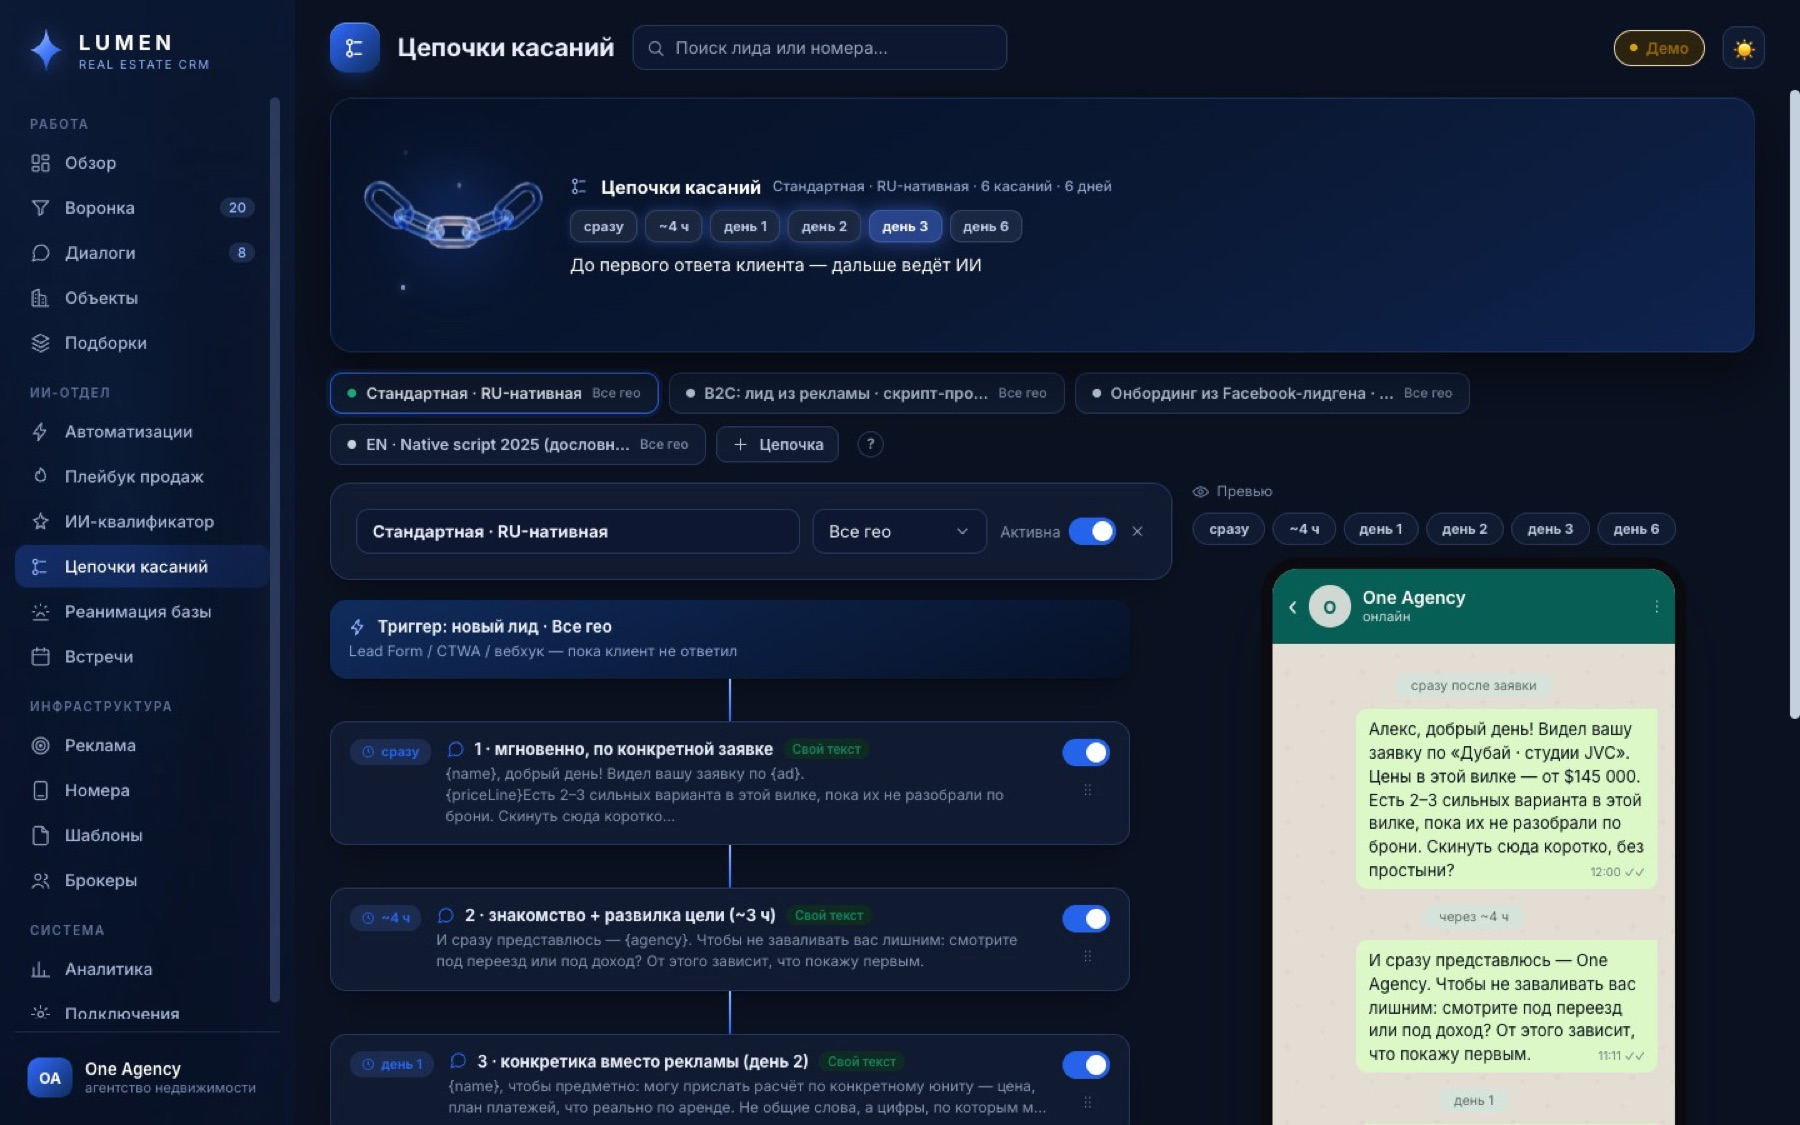
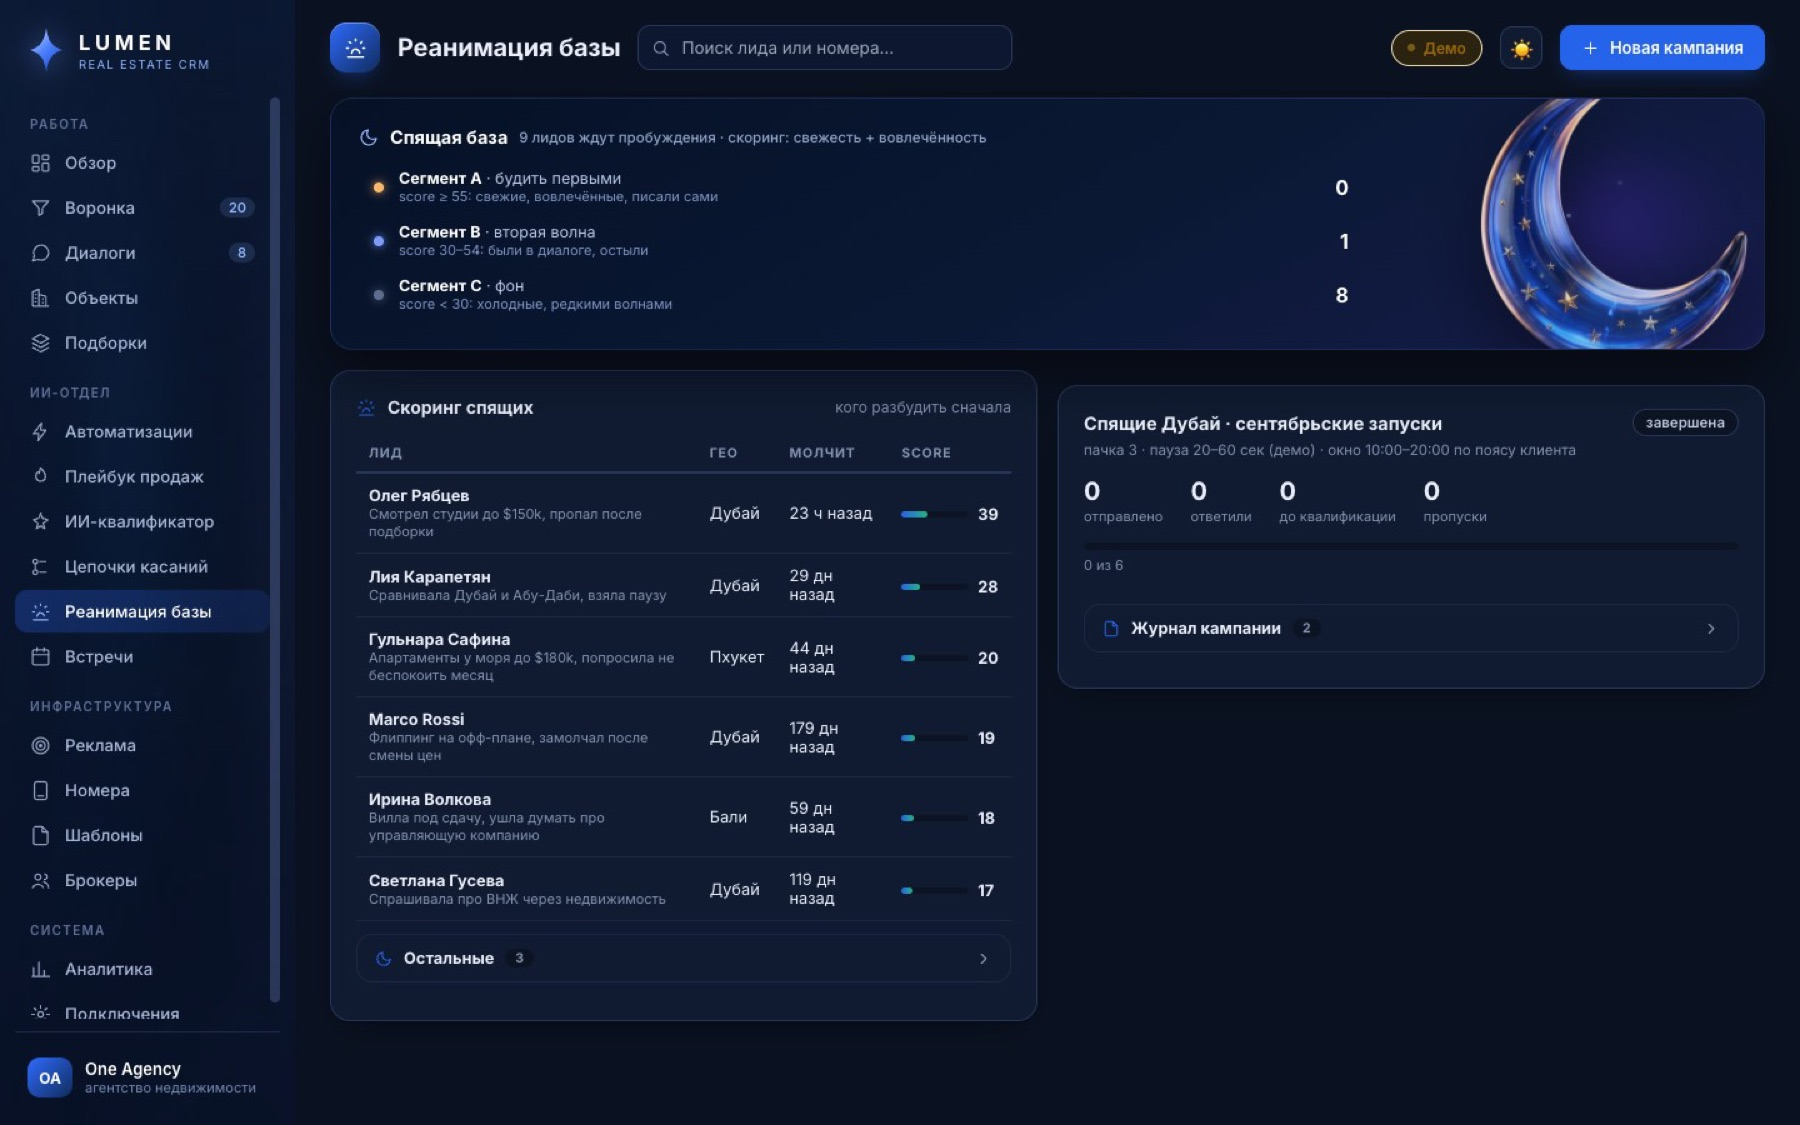
полировка лендинга: H1 — три чистые строки («за 60 секунд» не рвётся), бенто без пустот (карточки flex-колонкой, скрины object-fit:cover), «Реанимация базы» — правильный скрин с луной (был скрин цепочек + ?v= против суточного кэша картинок), «7 дней» неразрывно, формула калькулятора — тихой заметкой

diff --git a/public/landing.html b/public/landing.html
@@ -115,16 +115,16 @@ h2{font-family:var(--disp);font-weight:600;font-size:clamp(24px,3.2vw,38px);line
 
 /* бенто */
 .bento{display:grid;grid-template-columns:repeat(6,1fr);gap:16px}
-.bcard{grid-column:span 3;background:linear-gradient(180deg,var(--panel),var(--panel2));border:1px solid var(--stroke);border-radius:var(--r);overflow:hidden;position:relative;transition:transform var(--dur) var(--ease-spring),border-color var(--dur)}
+.bcard{grid-column:span 3;background:linear-gradient(180deg,var(--panel),var(--panel2));border:1px solid var(--stroke);border-radius:var(--r);overflow:hidden;position:relative;transition:transform var(--dur) var(--ease-spring),border-color var(--dur);display:flex;flex-direction:column}
 .bcard:hover{transform:translateY(-4px);border-color:var(--stroke2)}
 .bcard.w4{grid-column:span 4}.bcard.w2{grid-column:span 2}
 .bcard .pad{padding:26px 28px 20px}
 .bcard h3{font-family:var(--disp);font-weight:600;font-size:20px;letter-spacing:.01em;display:flex;gap:10px;align-items:center}
 .bcard h3 svg{width:19px;height:19px;color:var(--sky);flex:0 0 auto}
 .bcard p{color:var(--ink2);font-size:13.8px;margin-top:8px;line-height:1.55}
-.bcard .shot{margin:16px 18px 18px;border-radius:12px;border:1px solid var(--stroke);overflow:hidden;position:relative}
+.bcard .shot{margin:16px 18px 18px;border-radius:12px;border:1px solid var(--stroke);overflow:hidden;position:relative;flex:1;min-height:210px}
 .bcard .shot::after{content:'';position:absolute;inset:0;background:linear-gradient(180deg,transparent 55%,rgba(4,7,15,.55));pointer-events:none}
-.bcard .shot img{transition:transform .8s var(--ease-spring)}
+.bcard .shot img{width:100%;height:100%;object-fit:cover;object-position:top;transition:transform .8s var(--ease-spring)}
 .bcard:hover .shot img{transform:scale(1.025)}
 @media(max-width:900px){.bcard,.bcard.w4,.bcard.w2{grid-column:span 6}}
 
@@ -320,7 +320,7 @@ h2{font-family:var(--disp);font-weight:600;font-size:clamp(24px,3.2vw,38px);line
 .final{margin-top:180px;margin-left:auto;margin-right:auto}
 .fpanel h2{max-width:720px;margin:18px auto 0}
 .fpanel p{color:var(--ink2);max-width:560px;margin:18px auto 0}
-footer{padding:44px 0 40px;color:var(--ink3);font-size:13px;display:flex;justify-content:space-between;gap:14px;flex-wrap:wrap;align-items:center}
+footer{margin-top:70px;padding:34px 0 40px;border-top:1px solid var(--stroke);color:var(--ink3);font-size:13px;display:flex;justify-content:space-between;gap:14px;flex-wrap:wrap;align-items:center}
 footer .fb{display:flex;align-items:center;gap:9px;font-family:var(--disp);letter-spacing:.1em;font-weight:600;color:var(--ink2)}
 footer .fb img{width:18px;height:18px}
 
@@ -350,7 +350,7 @@ footer .fb img{width:18px;height:18px}
 <header class="hero">
   <div class="wrap">
     <span class="badge" data-hrv="1"><i></i>AI-CRM для агентств недвижимости</span>
-    <h1 data-hrv="2">ИИ-отдел продаж, который отвечает лиду <span class="em">за 60 секунд</span></h1>
+    <h1 data-hrv="2">ИИ-отдел продаж,<br>который отвечает лиду<br><span class="em">за 60 секунд</span></h1>
     <p class="sub" data-hrv="3">Lumen сам квалифицирует заявки в WhatsApp, дожимает молчунов 18 дней, будит спящую базу и передаёт брокеру только тёплых — с выжимкой и слотом созвона.</p>
     <div class="hero-ctas" data-hrv="4">
       <button class="btn-xl" onclick="location.href='/'">Смотреть живое демо</button>
@@ -391,7 +391,7 @@ footer .fb img{width:18px;height:18px}
       <div class="bcard" data-rv>
         <div class="pad"><h3><svg viewBox="0 0 24 24" fill="none" stroke="currentColor" stroke-width="1.8"><path d="M21 12.8A9 9 0 1 1 11.2 3a7 7 0 0 0 9.8 9.8z"/></svg>Реанимация базы</h3>
         <p>Скоринг A/B/C решает, кого будить первым. Волны с паузами, тихие часы по поясу клиента, safe-mode для здоровья номеров — спящая база превращается в сделки.</p></div>
-        <div class="shot"><img src="/assets/land/react.jpg" alt="Реанимация базы" loading="lazy"></div>
+        <div class="shot"><img src="/assets/land/react.jpg?v=2" alt="Реанимация базы" loading="lazy"></div>
       </div>
       <div class="bcard" data-rv>
         <div class="pad"><h3><svg viewBox="0 0 24 24" fill="none" stroke="currentColor" stroke-width="1.8"><path d="M14 2H6a2 2 0 0 0-2 2v16a2 2 0 0 0 2 2h12a2 2 0 0 0 2-2V8l-6-6z"/><path d="M14 2v6h6"/></svg>Подборки и PDF</h3>
@@ -454,7 +454,7 @@ footer .fb img{width:18px;height:18px}
         <div class="st"><span class="n">03</span><div><b>Волны с safe-mode</b><p>Пачки, паузы, тихие часы по поясу клиента — номера живут, база не выгорает.</p></div></div>
         <div class="st"><span class="n">04</span><div><b>Ответил — ведёт ИИ</b><p>Проснувшийся лид попадает в обычную первую линию и доходит до встречи.</p></div></div>
       </div>
-      <div class="pshot"><img src="/assets/land/react.jpg" alt="Реанимация" loading="lazy"></div>
+      <div class="pshot"><img src="/assets/land/react.jpg?v=2" alt="Реанимация" loading="lazy"></div>
     </div>
     <div class="ppane">
       <div class="steps">
@@ -569,9 +569,7 @@ footer .fb img{width:18px;height:18px}
           <div class="cl"><span>Сейчас доходит до квалификации</span><b id="cvConv">30%</b></div>
           <input type="range" id="cConv" min="10" max="60" step="1" value="30" aria-label="Текущая конверсия в квалификацию">
         </div>
-        <div class="crow" style="margin-top:30px">
-          <div class="cl" style="margin-bottom:0"><span style="color:var(--ink3);font-weight:500">Квал → сделка взяли 12%, Lumen считаем по 65% доквала (низ вилки 55–80%). Формулы честные, без магии.</span></div>
-        </div>
+        <div style="margin-top:26px;padding-top:16px;border-top:1px solid var(--stroke);font-size:12px;color:var(--ink3);line-height:1.6">Квал → сделка — 12%, Lumen — 65% доквала (низ вилки 55–80%). Формулы честные, без магии.</div>
       </div>
       <div class="cout">
         <div class="cres">
@@ -616,7 +614,7 @@ footer .fb img{width:18px;height:18px}
   <div class="wrap">
     <div class="sec-head" data-rv>
       <span class="sec-badge">Внедрение</span>
-      <h2>От брифа до живых заявок — 7 дней</h2>
+      <h2>От брифа до живых заявок&nbsp;— 7&nbsp;дней</h2>
       <p>Всё делаем мы. От вас — один созвон, доступы и желание зарабатывать больше.</p>
     </div>
     <div class="tl7" data-rv>
